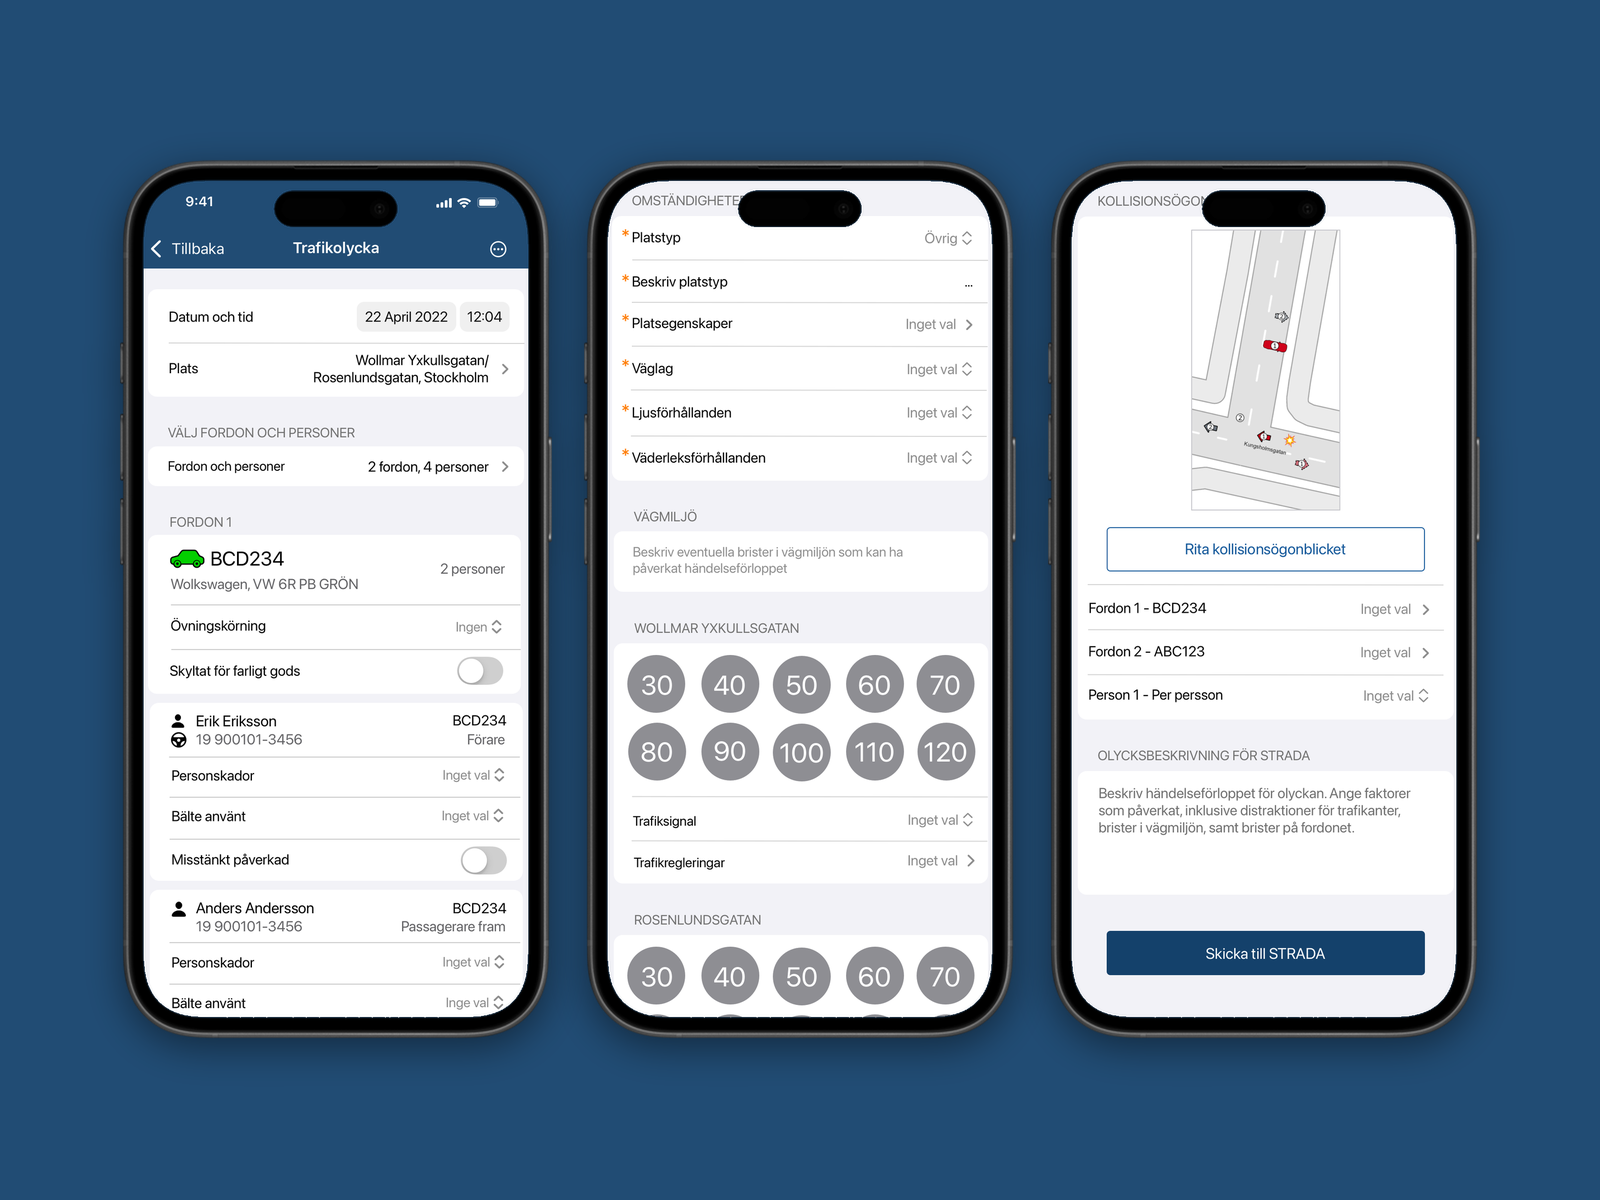
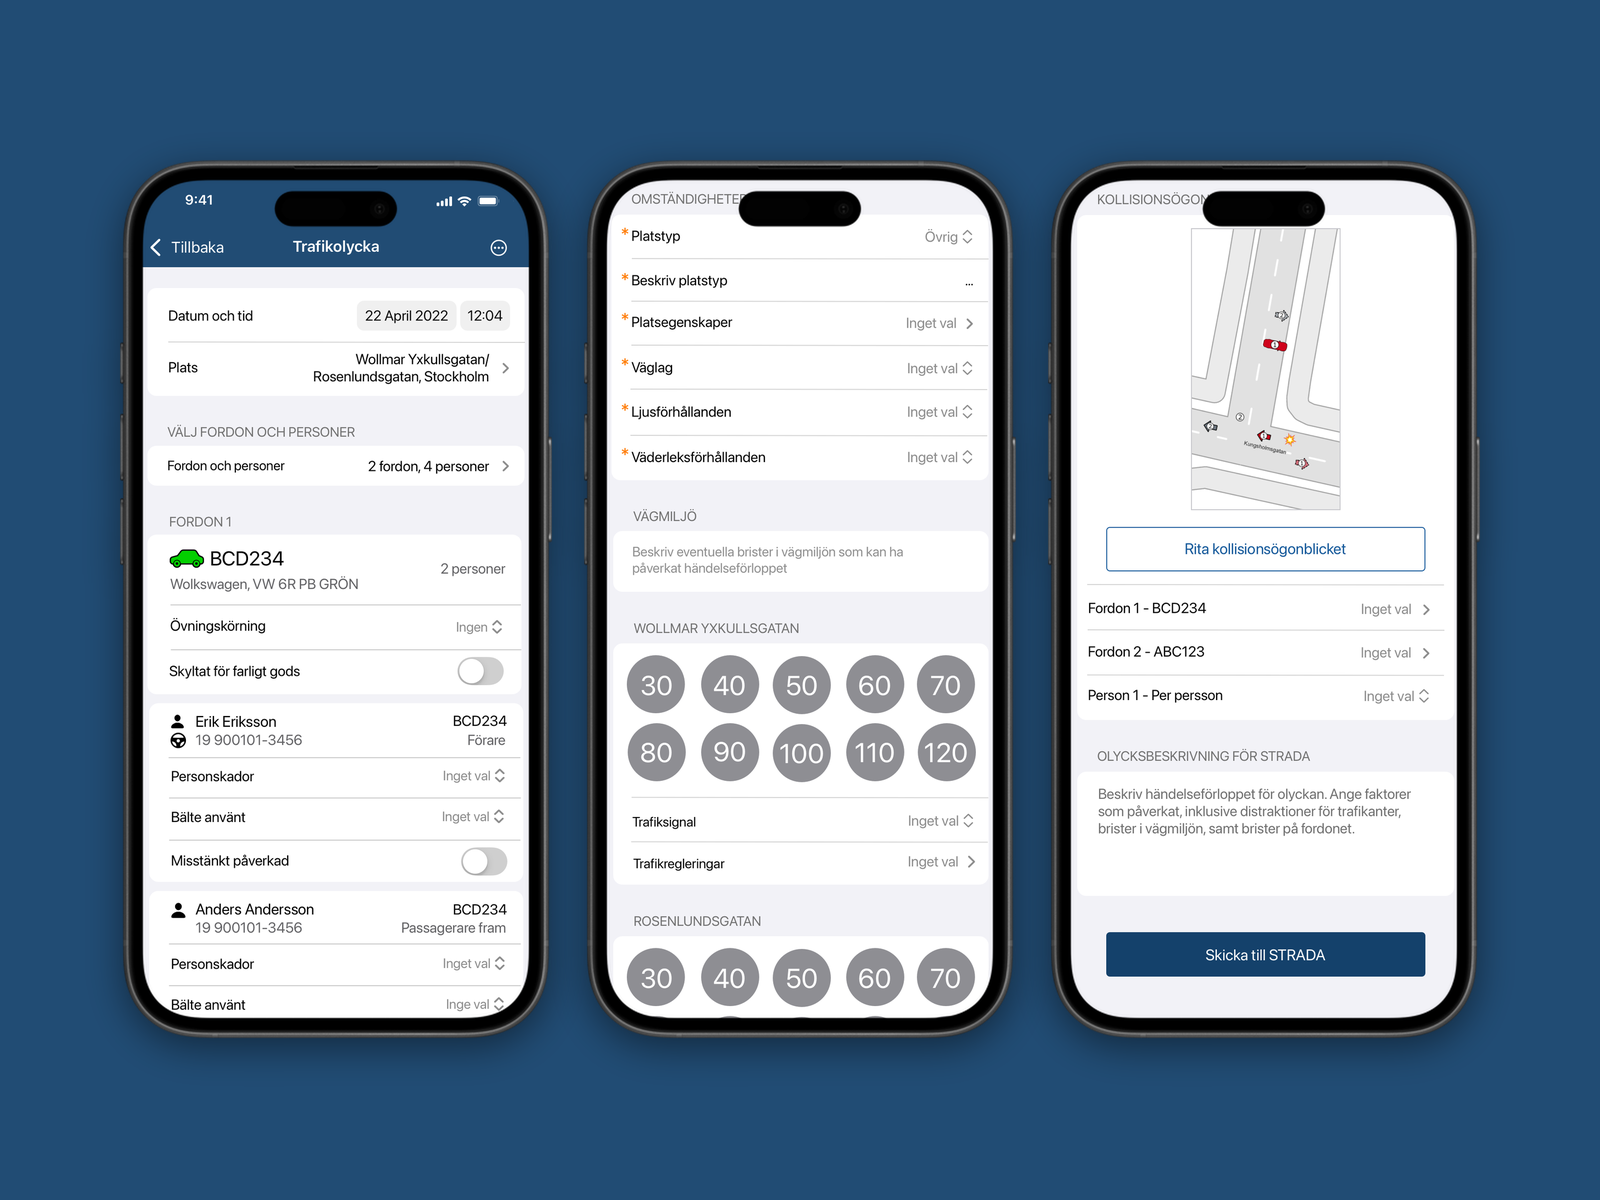
Fix hairline at the screen edge, keep the hover blur clipped in Safari

diff --git a/portfolio/index.html b/portfolio/index.html
@@ -21,8 +21,11 @@
 
   .card{display:block;text-decoration:none;color:inherit;position:relative;isolation:isolate;
     -webkit-user-select:none;user-select:none}
-  .collage{position:relative;overflow:hidden;border-radius:22px;background:var(--tint)}
-  .collage img{display:block;width:100%;height:auto;transition:filter .35s ease}
+  .collage{position:relative;overflow:hidden;background:var(--tint);
+    border-radius:22px;
+    clip-path:inset(0 round 22px);   /* Safari drops overflow clipping on filtered children */
+  }
+  .collage img{display:block;width:100%;height:auto;border-radius:22px;transition:filter .35s ease}
 
   .meta{padding:1.5rem .25rem 0}
   .title{font-size:1.625rem;line-height:1.25;letter-spacing:-.012em;font-weight:700;margin:0 0 1rem}
@@ -39,7 +42,7 @@
       filter:blur(24px);opacity:1;
     }
     .collage::after{
-      content:"";position:absolute;inset:0;background:#eef3f8;z-index:2;
+      content:"";position:absolute;inset:0;background:#eef3f8;z-index:2;border-radius:22px;
       opacity:0;transition:opacity .3s ease;
     }
     .card:hover .collage::after, .card:focus-visible .collage::after{opacity:.58}
